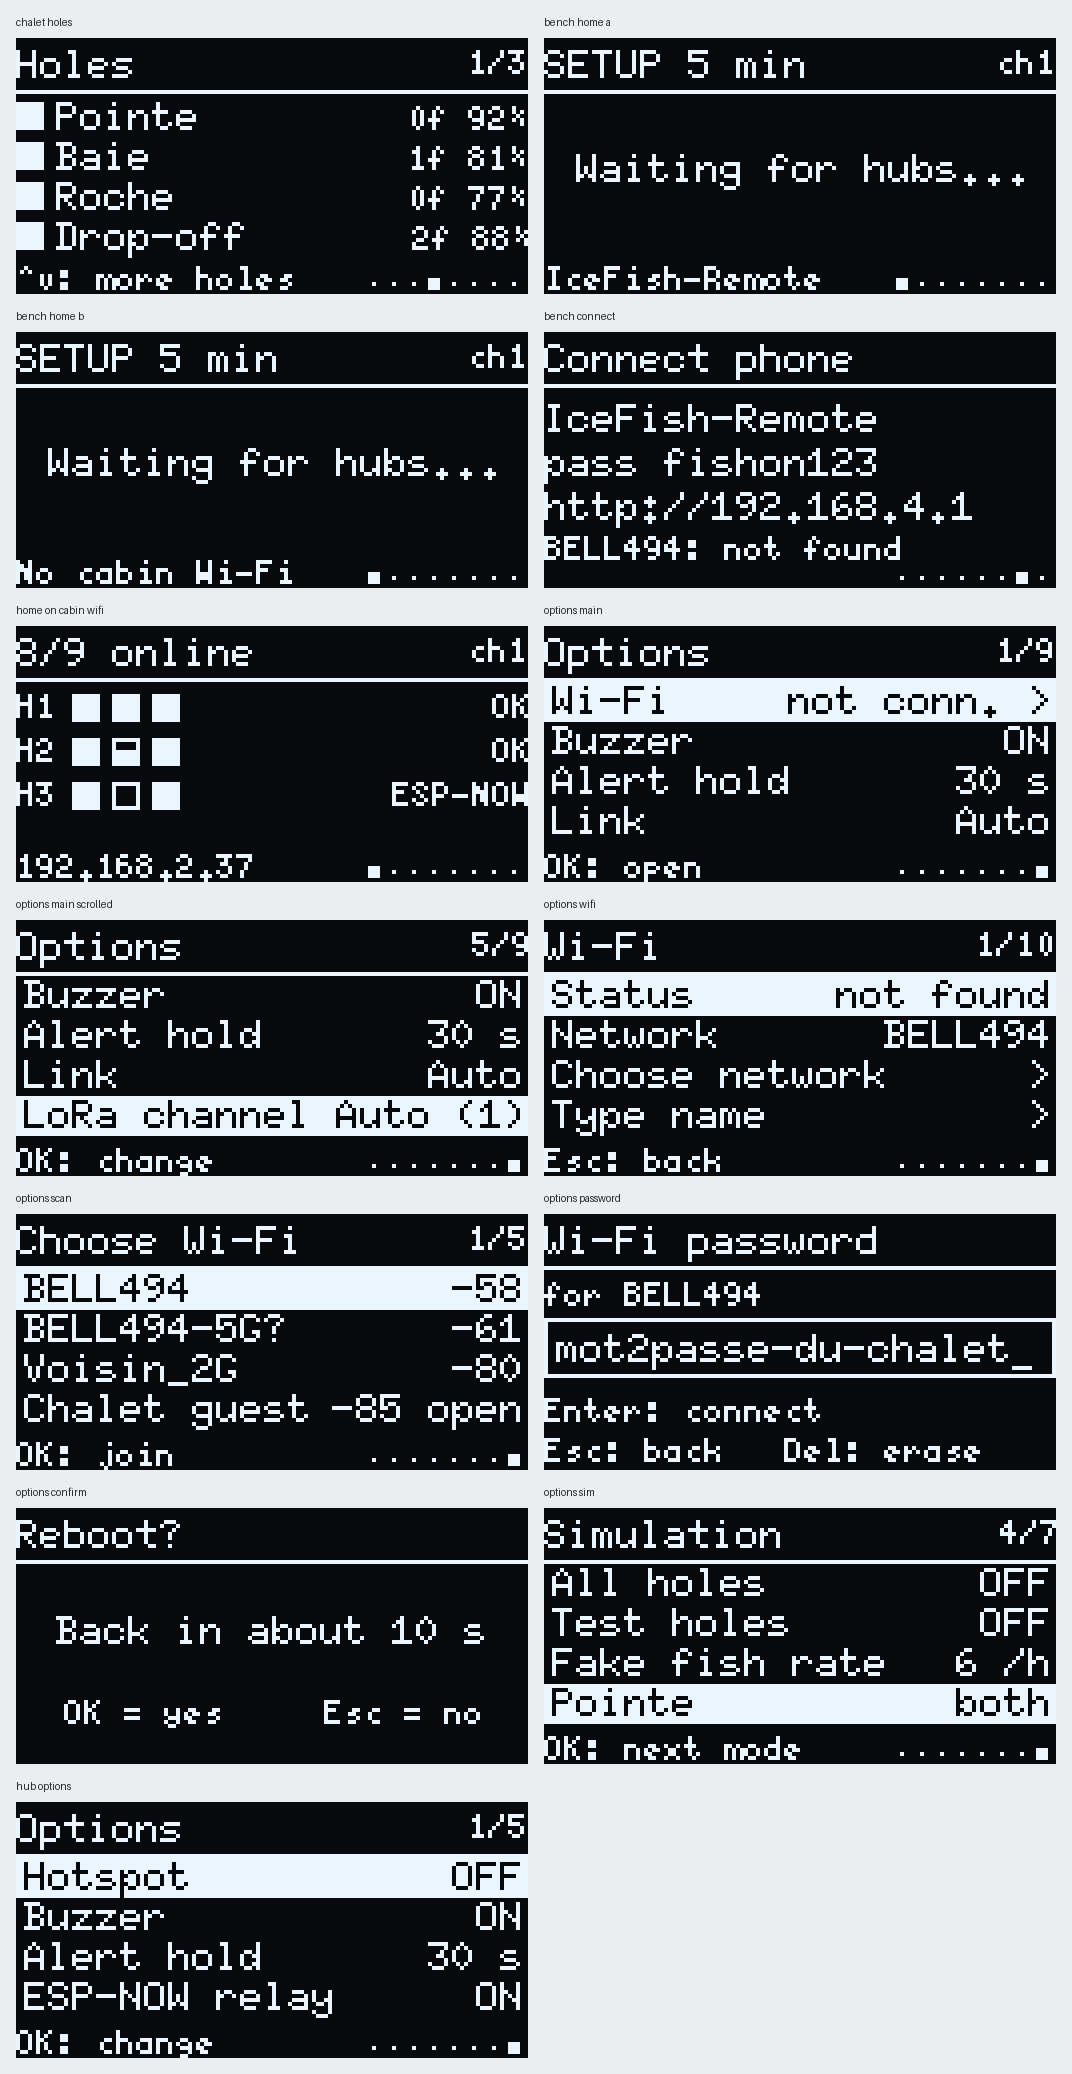
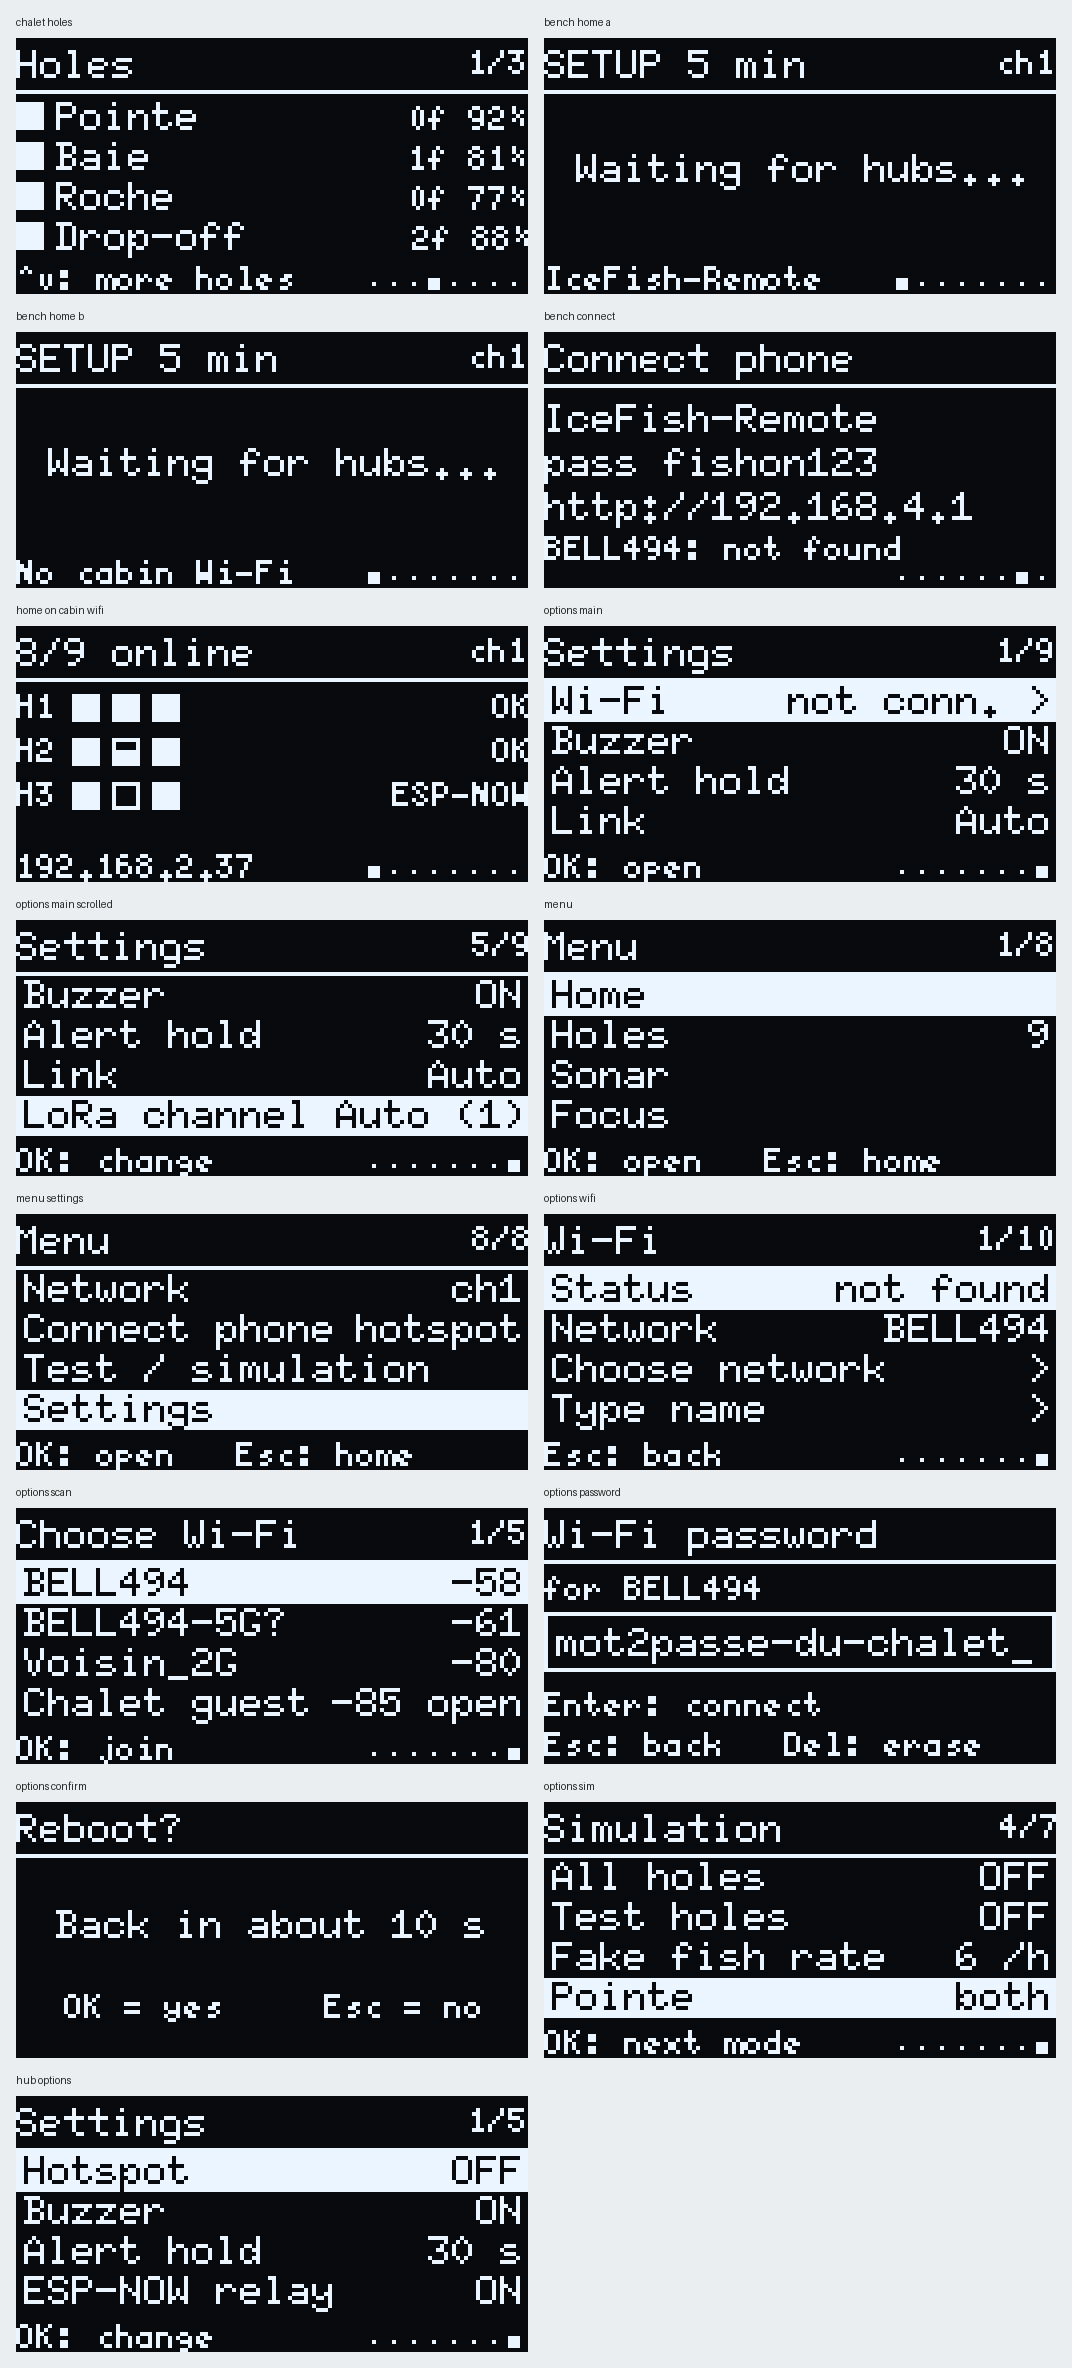
feat(ui): CardKB scrolling menu (Esc), Settings page; config.h Wi-Fi wins once after a change
- Esc (or Enter on Home) opens a Menu: list of pages, up/down + Enter; Esc in a page = back to
  the Menu; Esc in the Menu = Home. "Options" renamed Settings. Pages say "Esc: menu".
- loadWifiCredentials: a Wi-Fi network changed in config.h and flashed is used once over the one
  saved earlier (FNV hash in NVS); the OLED / web / serial can still change it afterwards
- Boot "Ready" screen in v2 style with "Esc = menu"; D37, mockups docs/screens/v2_menu.png

Claude-Session: https://claude.ai/code/session_01A1NVA5jA7T8fBrAYk7aqhB

diff --git a/src/lora_node/main.cpp b/src/lora_node/main.cpp
@@ -349,6 +349,7 @@ static void scrStep(int dir);
 static void scrAction(bool kb = false);
 void loopOptions();
 static void optBuild(ScrOptions* o);
+static void menuBuild(ScrOptions* o);
 void loopWebServer();
 void loopBuzzer();
 void loopNodeTimeout();
@@ -620,7 +621,7 @@ void setup() {
   display.setFont(u8g2_font_6x10_tr);
   display.drawStr(0, 27, currentRole == ROLE_GATEWAY_OFFSHORE ? "Chalet (offshore)" :
                          currentRole == ROLE_GATEWAY_ONSHORE ? "Hub (on the ice)" : getRoleName(currentRole));
-  display.drawStr(0, 60, "Ready");
+  display.drawStr(0, 60, cardKbAvailable ? "Ready - Esc = menu" : "Ready");
   display.sendBuffer();
   
   triggerBuzzer(1);
@@ -2665,24 +2666,26 @@ void loopBuzzer() {
 // ═══════════════════════════════════════════════════════════════════════════
 
 void loadWifiCredentials() {
-  preferences.begin("wifi", true);  // Read-only
-  
+  // v2: the Wi-Fi written in config.h wins once after it is changed and flashed (before: a network
+  // saved earlier from the web page / serial / OLED always won, so a new config.h was silently ignored).
+  // Afterwards the OLED / web page / serial can change it again; "Forget network" saves an empty one.
+  uint32_t h = 2166136261u;   // FNV-1a of the config.h name + password
+  for (const char* c = STA_SSID "\x1f" STA_PASSWORD; *c; c++) { h ^= (uint8_t)*c; h *= 16777619u; }
+  preferences.begin("wifi", false);
+  if (preferences.getUInt("cfgHash", 0) != h) {
+    preferences.putString("ssid", STA_SSID);
+    preferences.putString("pass", STA_PASSWORD);
+    preferences.putUInt("cfgHash", h);
+    Serial.printf("Wi-Fi: config.h network changed -> using %s\n", STA_SSID);
+  }
   String ssid = preferences.getString("ssid", "");
   String pass = preferences.getString("pass", "");
-  const bool saved = preferences.isKey("ssid");   // v2: saved empty = "Forget network" (do not fall back to config.h)
-  
   preferences.end();
-  
-  if (ssid.length() > 0 || saved) {
-    strncpy(storedSsid, ssid.c_str(), sizeof(storedSsid) - 1);
-    strncpy(storedPassword, pass.c_str(), sizeof(storedPassword) - 1);
-    DEBUG_PRINTF("Loaded WiFi credentials: %s\n", storedSsid);
-  } else {
-    // Use defaults from config.h
-    strncpy(storedSsid, STA_SSID, sizeof(storedSsid) - 1);
-    strncpy(storedPassword, STA_PASSWORD, sizeof(storedPassword) - 1);
-    DEBUG_PRINTLN(F("Using default WiFi credentials from config"));
-  }
+
+  memset(storedSsid, 0, sizeof(storedSsid)); memset(storedPassword, 0, sizeof(storedPassword));
+  strncpy(storedSsid, ssid.c_str(), sizeof(storedSsid) - 1);
+  strncpy(storedPassword, pass.c_str(), sizeof(storedPassword) - 1);
+  Serial.printf("Wi-Fi: cabin network %s\n", storedSsid[0] ? storedSsid : "(none)");
 }
 
 void saveWifiCredentials(const char* ssid, const char* password) {
@@ -4820,6 +4823,8 @@ void loopCardKB() {
 // =============================================================================================
 static ScreenModel scr;
 static uint8_t scrPage = PG_HOME, scrSub = 0;
+static bool scrMenu = false;           // CardKB menu (list of pages) open
+static uint8_t scrMenuSel = 0;
 static uint32_t scrLastInput = 0;
 static MeshPingLite scrPings[118];
 
@@ -4914,7 +4919,9 @@ static void buildScreenModel() {
   m.kb = cardKbAvailable;
   snprintf(m.sta_ssid, sizeof(m.sta_ssid), "%s", storedSsid);
   wifiStateText(m.sta_state, sizeof(m.sta_state));
-  if (scrPage == PG_OPTIONS) optBuild(&m.opt);
+  m.menu = scrMenu;
+  if (scrMenu) menuBuild(&m.opt);
+  else if (scrPage == PG_OPTIONS) optBuild(&m.opt);
 }
 
 // =============================================================================================
@@ -5045,7 +5052,7 @@ static void optBuild(ScrOptions* o) {
   if (optSel >= optN) optSel = optN ? optN - 1 : 0;
   if (!o) return;
   o->mode = optMode; o->n = optN; o->sel = optSel;
-  static const char* const TITLES[] = {"Options", "Wi-Fi", "Choose Wi-Fi", "Simulation"};
+  static const char* const TITLES[] = {"Settings", "Wi-Fi", "Choose Wi-Fi", "Simulation"};
   snprintf(o->title, sizeof(o->title), "%s", TITLES[optMenu & 3]);
   snprintf(o->hint, sizeof(o->hint), "%s", !cardKbAvailable ? "CardKB or web page" : optN ? optHint(optRows[optSel].item) : "Esc: back");
   o->line[0] = 0; o->text[0] = 0;
@@ -5229,6 +5236,57 @@ static void scrStep(int dir) {
   scrLastInput = millis();
 }
 
+// ---- CardKB menu: Esc opens the list of pages, up/down + Enter opens one, Esc in a page comes back here ----
+static const uint8_t MENU_ORDER[] = {PG_HOME, PG_HOLES, PG_SONAR, PG_FOCUS, PG_NETWORK, PG_CONNECT, PG_TEST, PG_OPTIONS};
+static uint8_t menuPages[PG_COUNT], menuN = 0;
+
+static void menuBuild(ScrOptions* o) {
+  static const char* const NAMES[PG_COUNT] = {"Home", "Sonar", "Focus", "Holes", "Network", "Test / simulation", "Connect phone", "Settings"};
+  menuN = 0;
+  for (uint8_t k = 0; k < sizeof(MENU_ORDER); k++) {
+    const uint8_t p = MENU_ORDER[k];
+    if (!scrPageAvailable(p)) continue;
+    if (o) {
+      ScrRow& r = o->rows[menuN];
+      snprintf(r.label, sizeof(r.label), "%s", NAMES[p]); r.value[0] = 0; r.sub = false;
+      if (p == PG_HOLES) snprintf(r.value, sizeof(r.value), "%u", scr.n_holes);
+      else if (p == PG_NETWORK) snprintf(r.value, sizeof(r.value), "ch%u", scr.lora_ch);
+      else if (p == PG_CONNECT && scr.chalet) snprintf(r.value, sizeof(r.value), "%s", scr.sta ? "Wi-Fi OK" : "hotspot");
+      else if (p == PG_TEST && simAnyOn()) snprintf(r.value, sizeof(r.value), "SIM ON");
+    }
+    menuPages[menuN++] = p;
+  }
+  if (scrMenuSel >= menuN) scrMenuSel = menuN ? menuN - 1 : 0;
+  if (!o) return;
+  o->mode = SO_LIST; o->n = menuN; o->sel = scrMenuSel;
+  snprintf(o->title, sizeof(o->title), "Menu");
+  snprintf(o->hint, sizeof(o->hint), "OK: open   Esc: home");
+}
+
+static void menuOpen() {
+  menuBuild(nullptr);
+  scrMenuSel = 0;
+  for (uint8_t i = 0; i < menuN; i++) if (menuPages[i] == scrPage) scrMenuSel = i;
+  scrMenu = true;
+  scrLastInput = millis();
+}
+
+// key while the menu is open
+static void menuKey(uint8_t k) {
+  menuBuild(nullptr);
+  switch (k) {
+    case KEY_UP: if (scrMenuSel > 0) scrMenuSel--; break;
+    case KEY_DOWN: if (scrMenuSel + 1 < menuN) scrMenuSel++; break;
+    case KEY_ENTER: case KEY_RIGHT:
+      if (!menuN) break;
+      scrPage = menuPages[scrMenuSel]; scrSub = 0; scrMenu = false;
+      if (scrPage == PG_OPTIONS) { optMenu = OM_MAIN; optSel = 0; optMode = SO_LIST; }
+      break;
+    case KEY_ESC: case KEY_LEFT: scrMenu = false; scrPage = PG_HOME; scrSub = 0; break;
+    default: break;
+  }
+}
+
 // FOCUS: the next / previous hole that has a sonar
 static void focusStep(int dir) {
   if (currentRole != ROLE_GATEWAY_OFFSHORE) return;
@@ -5258,7 +5316,7 @@ static void scrScroll(int dir) {
 static void scrAction(bool kb) {
   scrLastInput = millis();
   switch (scrPage) {
-    case PG_HOME: if (alertsSilenced) { silenceAlerts(); showOverlayMessage("Unsilenced", 800); } break;
+    case PG_HOME: if (alertsSilenced) { silenceAlerts(); showOverlayMessage("Unsilenced", 800); } else if (kb) menuOpen(); break;
     case PG_HOLES: scrSub = (uint8_t)((scrSub + 1) % screenHolesPages(scr)); break;
     case PG_SONAR: scrSub = (uint8_t)((scrSub + 1) % screenSonarPages(scr)); break;
     case PG_FOCUS: focusStep(+1); break;
@@ -5270,7 +5328,7 @@ static void scrAction(bool kb) {
 
 static void scrDraw() {
   const uint32_t idle = scrPage == PG_OPTIONS ? 180000UL : 60000UL;   // typing a password takes time
-  if (scrPage != PG_HOME && millis() - scrLastInput > idle) { scrPage = PG_HOME; scrSub = 0; optMode = SO_LIST; }
+  if ((scrPage != PG_HOME || scrMenu) && millis() - scrLastInput > idle) { scrPage = PG_HOME; scrSub = 0; optMode = SO_LIST; scrMenu = false; }
   buildScreenModel();
   if (!scrPageAvailable(scrPage)) scrPage = PG_HOME;
   if (scrPage == PG_NETWORK && scr.radio_test) { drawRadioTest(); return; }   // radio test: detailed per-hub stats
@@ -5447,8 +5505,9 @@ void loopButton() {
 }
 
 void handleKeyPress(char key) {
-  // v2 CardKB: left/right = page, up/down = inside the page, Enter = OK (the action in the footer),
-  // Esc = back / home, s = silence. On the Options page the keys go to the list / text entry first.
+  // v2 CardKB: Esc = menu (list of pages: up/down, Enter = open, Esc = home); in a page up/down = inside
+  // the page, Enter = OK (the action in the footer), left/right = previous/next page, s = silence.
+  // On Settings the keys go to the list / text entry first (Esc there = up one level, then the menu).
   const bool wasAsleep = displaySleeping;
   registerActivity();
   if (wasAsleep) return;   // the first key only wakes the screen
@@ -5459,6 +5518,7 @@ void handleKeyPress(char key) {
     silenceAlerts(); showOverlayMessage("Silenced", 800);
     return;
   }
+  if (scrMenu) { menuKey(k); return; }
   if (scrPage == PG_OPTIONS && optKey(k)) return;
   switch (k) {
     case KEY_RIGHT: case KEY_TAB: case ' ': case 'n': case 'N': scrStep(+1); break;
@@ -5467,7 +5527,7 @@ void handleKeyPress(char key) {
     case KEY_UP: scrScroll(-1); break;
     case KEY_ENTER: scrAction(true); break;
     case 's': case 'S': silenceAlerts(); showOverlayMessage(alertsSilenced ? "Silenced" : "Unsilenced", 800); break;
-    case KEY_ESC: scrPage = PG_HOME; scrSub = 0; break;
+    case KEY_ESC: menuOpen(); break;   // back to the menu, pick another page
     default: break;
   }
 }

diff --git a/src/lora_node/screens.cpp b/src/lora_node/screens.cpp
@@ -114,6 +114,7 @@ void footer(u8g2_t* u, const ScreenModel& m, uint8_t page) {
   if (scroll) snprintf(line, sizeof(line), "^v: more holes");
   else if (act[0]) snprintf(line, sizeof(line), "%s %s", m.kb ? "OK:" : "2x:", act);
   else if (m.silenced) { char t[12]; mmss(t, sizeof(t), m.silence_s); snprintf(line, sizeof(line), "SILENCED %s", t); }
+  else if (m.kb && page != PG_HOME) snprintf(line, sizeof(line), "Esc: menu");
   else if (m.chalet && m.sta) { const char* ip = strncmp(m.url, "http://", 7) == 0 ? m.url + 7 : m.url; snprintf(line, sizeof(line), "%s", ip); }
   else if (m.chalet) snprintf(line, sizeof(line), "%s", (m.sta_ssid[0] && (m.uptime_s / 3) % 2) ? "No cabin Wi-Fi" : m.ssid);   // alternates every 3 s
   else if (m.hotspot) snprintf(line, sizeof(line), "Hotspot on %lu min", (unsigned long)m.hotspot_min);
@@ -383,7 +384,7 @@ void connectPage(u8g2_t* u, const ScreenModel& m) {
 }
 
 // ---- options: list / text entry / yes-no (content decided by the firmware) ----
-void optionsPage(u8g2_t* u, const ScreenModel& m, bool blink) {
+void optionsPage(u8g2_t* u, const ScreenModel& m, bool blink, uint8_t dots_page) {
   const ScrOptions& o = m.opt;
   char s[72];
   if (o.mode == SO_TEXT) {
@@ -428,9 +429,9 @@ void optionsPage(u8g2_t* u, const ScreenModel& m, bool blink) {
     u8g2_SetDrawColor(u, 1);
   }
   u8g2_SetFont(u, F_SMALL);
-  snprintf(s, sizeof(s), "%s", o.hint); fit(u, s, 128 - PG_COUNT * 5 - 2);
+  snprintf(s, sizeof(s), "%s", o.hint); fit(u, s, dots_page < PG_COUNT ? 128 - PG_COUNT * 5 - 2 : 128);
   u8g2_DrawStr(u, 0, 63, s);
-  pageDots(u, PG_OPTIONS);
+  if (dots_page < PG_COUNT) pageDots(u, dots_page);
 }
 
 // rows used by the chalet home (pockets, two columns above 4)
@@ -473,6 +474,7 @@ void screenDraw(u8g2_t* u, const ScreenModel& m, uint8_t page, uint8_t sub, bool
   bool fish = false;
   for (uint8_t i = 0; i < m.n_holes; i++) fish |= m.holes[i].state == SH_FISH;
   if (fish && !m.silenced) { drawAlert(u, m, blink); u8g2_SendBuffer(u); return; }
+  if (m.menu) { optionsPage(u, m, blink, 255); u8g2_SendBuffer(u); return; }   // CardKB menu (list of pages)
   switch (page) {
     case PG_HOLES: holesPage(u, m, sub, blink); footer(u, m, page); break;
     case PG_SONAR: sonarPage(u, m, sub, blink); break;
@@ -480,7 +482,7 @@ void screenDraw(u8g2_t* u, const ScreenModel& m, uint8_t page, uint8_t sub, bool
     case PG_NETWORK: networkPage(u, m); break;
     case PG_TEST: testPage(u, m); footer(u, m, page); break;
     case PG_CONNECT: connectPage(u, m); break;
-    case PG_OPTIONS: optionsPage(u, m, blink); break;
+    case PG_OPTIONS: optionsPage(u, m, blink, PG_OPTIONS); break;
     default:
       if (m.chalet) homeChalet(u, m, blink); else homeHub(u, m, blink);
       if (homeRows(m) <= 4) footer(u, m, PG_HOME); else pageDots(u, PG_HOME);   // 5 pocket rows: no room for the footer

diff --git a/tools/screens_mock.cpp b/tools/screens_mock.cpp
@@ -113,11 +113,16 @@ int main(int argc, char** argv) {
   m = base(true); m.sta = true; snprintf(m.url, sizeof(m.url), "http://192.168.2.37"); snprintf(m.sta_ssid, sizeof(m.sta_ssid), "BELL494");
   pockets3(m); shot("home_on_cabin_wifi", m, PG_HOME, 0, true);
   // ---- options (CardKB) ----
-  m = base(true); olist(m, "Options", 0, "OK: open");
+  m = base(true); olist(m, "Settings", 0, "OK: open");
   orow(m, "Wi-Fi", "not conn.", true); orow(m, "Buzzer", "ON"); orow(m, "Alert hold", "30 s"); orow(m, "Link", "Auto");
   orow(m, "LoRa channel", "Auto (1)"); orow(m, "Simulation", "off", true); orow(m, "Network reset", ""); orow(m, "Reboot", ""); orow(m, "Built", "Oct  6 15:40");
   shot("options_main", m, PG_OPTIONS, 0, true);
   m.opt.sel = 4; snprintf(m.opt.hint, sizeof(m.opt.hint), "OK: change"); shot("options_main_scrolled", m, PG_OPTIONS, 0, true);
+  m = base(true); pockets3(m); m.menu = true; olist(m, "Menu", 0, "OK: open   Esc: home");
+  orow(m, "Home", ""); orow(m, "Holes", "9"); orow(m, "Sonar", ""); orow(m, "Focus", ""); orow(m, "Network", "ch1");
+  orow(m, "Connect phone", "hotspot"); orow(m, "Test / simulation", ""); orow(m, "Settings", "");
+  shot("menu", m, PG_HOME, 0, true);
+  m.opt.sel = 7; shot("menu_settings", m, PG_HOME, 0, true);
   m = base(true); olist(m, "Wi-Fi", 0, "Esc: back");
   orow(m, "Status", "not found"); orow(m, "Network", "BELL494"); orow(m, "Choose network", "", true); orow(m, "Type name", "", true);
   orow(m, "Address", "-"); orow(m, "Retry now", ""); orow(m, "Channel", "1 OK"); orow(m, "AP", "IceFish-Remote"); orow(m, "AP pass", "fishon123"); orow(m, "Forget network", "");
@@ -134,7 +139,7 @@ int main(int argc, char** argv) {
   orow(m, "All holes", "OFF"); orow(m, "Test holes", "OFF"); orow(m, "Fake fish rate", "6 /h"); orow(m, "Pointe", "both");
   orow(m, "Baie", "sonar~"); orow(m, "Roche", "off"); orow(m, "Drop-off", "off");
   shot("options_sim", m, PG_OPTIONS, 0, true);
-  m = base(false); olist(m, "Options", 0, "OK: change");
+  m = base(false); olist(m, "Settings", 0, "OK: change");
   orow(m, "Hotspot", "OFF"); orow(m, "Buzzer", "ON"); orow(m, "Alert hold", "30 s"); orow(m, "ESP-NOW relay", "ON"); orow(m, "Reed polarity", "HIGH");
   shot("hub_options", m, PG_OPTIONS, 0, true);
   printf("%d screens\n", k);

diff --git a/src/lora_node/screens.h b/src/lora_node/screens.h
@@ -1,7 +1,7 @@
 // v2 OLED screens (128x64, Heltec V3) — chalet and hubs. Pure drawing from a ScreenModel, with the U8g2
 // C API, so the exact same code renders on the PC (tools/screens_mock.cpp → PNG mockups) and on the board.
 // Design: docs/SCREENS.md. One button: short press = next page (silence during an alert).
-// CardKB: left/right = page, up/down = inside the page, Enter = OK, Esc = back / home.
+// CardKB: Esc = menu (list of pages, up/down + Enter), up/down = inside the page, Enter = OK, left/right = page.
 #pragma once
 #include <stdint.h>
 #ifdef ARDUINO
@@ -71,7 +71,8 @@ struct ScreenModel {
   // test
   uint8_t radio_test;        // 0 off, else a test mode
   const char* radio_test_name;
-  ScrOptions opt;            // PG_OPTIONS
+  ScrOptions opt;            // PG_OPTIONS (Settings) or the menu
+  bool menu;                 // CardKB menu open: opt holds the list of pages
 };
 
 // Draws one frame. `page` is ignored while a hole has FISH and alerts are not silenced (alert screen).

diff --git a/docs/decisions.md b/docs/decisions.md
@@ -38,3 +38,4 @@
 | 2026-10-06 | D34 | **BASE v3**: every target of the latest ping every 2 s (was nearest fish every 4 s, 9 B -> ≤ 16 B); the chalet keeps ~3 min per hole → mini sonar on every tip-up card and on the OLED | Frank: "see at a glance what there is" |
 | 2026-10-06 | D35 | **Simulation per hole**: fake sonar and/or fake Hall trips (rate per hour), on the real tip-ups (through their normal wake/send cycle) and on virtual test holes of the hubs; set per hole or all from Settings → Test & simulation, serial `SIM`, or the OLED Test page; holes running a simulation report it (FLAG_SIM / LF_SIM) and show SIM everywhere | Frank |
 | 2026-10-06 | D36 | **CardKB navigation + Options page** (revises D33 after the first bench test): ←/→ = page, ↑/↓ = inside the page, Enter = OK, Esc = back/home; new last page **Options** (chalet: Wi-Fi with scan list / typing / status, buzzer, alert hold, link, LoRa channel, simulation per hole, network reset, reboot, firmware date; hub: hotspot, buzzer, alert hold, relay, reed polarity). **Cabin Wi-Fi**: the chalet no longer forces channel 1 after joining a router (it follows the router; ESP-NOW backup with the hubs then needs the router on channel 1, LoRa unaffected), retries a router missing at boot (2 min, doubling to 30 min), shows why it is not connected (not found / bad password?); "Forget network" is kept over the config.h default | Frank: "not using the arrows", "not intuitive", "dont see the settings", no address shown |
+| 2026-10-06 | D37 | **CardKB menu** (revises D36): Esc/Enter on Home opens a scrolling list of pages, Esc in a page goes back to it, Esc in the menu = Home; "Options" renamed Settings. **config.h Wi-Fi wins once after a change** (hash kept in NVS): before, a network saved earlier from the web/serial silently overrode a new config.h | Frank: "the Bell Wi-Fi seems to remain on the old one", "not obvious how to get to the options", "scrolling menu and Esc for back, a bit like before" |

diff --git a/docs/SCREENS.md b/docs/SCREENS.md
@@ -61,3 +61,15 @@ Options page (last page, values change at once and are saved like the web page d
 
 Cabin Wi-Fi made visible: home footer shows the address when joined, else alternates "No cabin Wi-Fi" / hotspot name;
 Connect page shows "<network>: not found / bad password? / connecting..." (reason from the Wi-Fi driver, D36).
+
+## Menu (Frank, 2026-10-06, after the second bench test)
+"I'd rather do a scrolling menu and Esc to go back and select the tab I want, a bit like before."
+Mockups: `docs/screens/v2_menu.png`.
+| Where | Esc | ↑ / ↓ | Enter | ← / → |
+|---|---|---|---|---|
+| Home | opens the **Menu** | - | opens the Menu (unsilences when silenced) | previous / next page |
+| Menu (Home, Holes, Sonar, Focus, Network, Connect phone, Test / simulation, Settings) | Home | move | open the page | ← Home, → open |
+| A page | back to the Menu | inside the page | the page action ("OK: ...") | previous / next page |
+| Settings | up one level, then the Menu | move | change / open | ← up one level |
+The page "Options" is renamed **Settings**. Boot screen: "Ice Fishing v2 / Chalet (offshore) / built <date>", then "Ready - Esc = menu".
+Cabin Wi-Fi: a network changed in config.h and flashed now wins once over the one saved before (D37).
